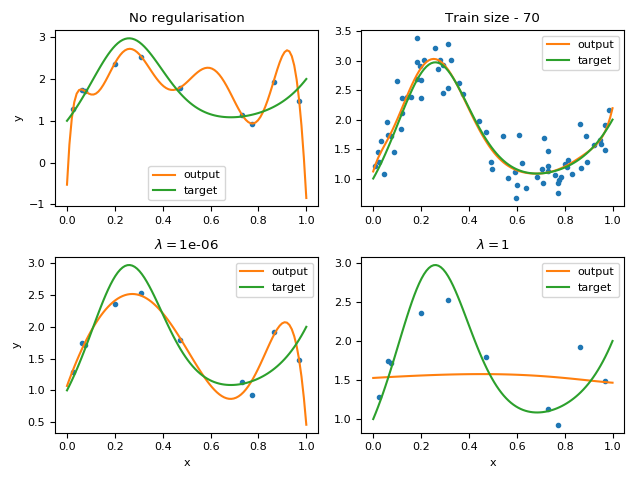
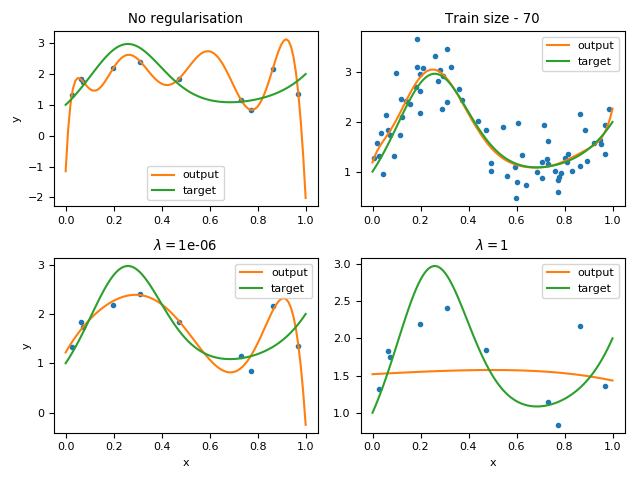
modified sigma value in regression code

diff --git a/regression.py b/regression.py
@@ -1,4 +1,4 @@
-import numpy as np 
+import numpy as np
 import matplotlib.pyplot as plt
 import pandas as pd
 from scipy import linalg
@@ -25,7 +25,7 @@ def getPolyfeatures(X,n) :
 
 def getRMSE(ytrue,ypred,ridge,w) :
     return np.sqrt((np.sum(np.multiply(ytrue-ypred,ytrue-ypred)) + ridge*np.sum(np.multiply(w,w)))/ytrue.shape[0])
-    
+
 def getResults(X,y,degree,ridge) :
     X = getPolyfeatures(X, degree)
     print("shape is", X.shape)
@@ -43,7 +43,7 @@ y = np.ndarray(shape=(100,1),dtype=np.float64)
 
 # Generate 100 points in (0,1)
 X = np.random.uniform(low=0,high=1,size=100).reshape(100,1)
-noise = np.random.normal(0,np.sqrt(0.1),100).reshape(100,1)
+noise = np.random.normal(0,np.sqrt(0.2),100).reshape(100,1)
 func = getFunc(X)
 y = func + noise
 
@@ -82,10 +82,10 @@ if default :
     sizes = [10]
     figure = plt.figure()
 
-for degree in degrees : 
+for degree in degrees :
     for ridge in ridges :
-        for size in sizes : 
-            X_train_new = X_train[:size]            
+        for size in sizes :
+            X_train_new = X_train[:size]
             y_train_new = y_train[:size]
             # X_train_new_poly = getPolyfeatures(X_train_new, degree)
             # w = getWeights(X_train_new_poly, y_train_new, ridge)
@@ -105,7 +105,7 @@ for degree in degrees :
 
                 # Training data
                 plt.plot(X_train_new,y_train_new,'.')
-                
+
                 # Curve fit
                 x = np.linspace(0,1,100)
                 y_func = getFunc(x)
@@ -206,9 +206,9 @@ X_train_new = X_train[:size]
 y_train_new = y_train[:size]
 
 rmse_train = []
-rmse_test = [] 
+rmse_test = []
 
-for degree in all_degrees : 
+for degree in all_degrees :
     w, y_pred_new, rmse = getResults(X_train_new, y_train_new, degree, ridge)
     rmse_train.append(rmse)
     rmse_test.append(getRMSE(y_test,getPolyfit(getPolyfeatures(X_test,degree),w), ridge, w))
